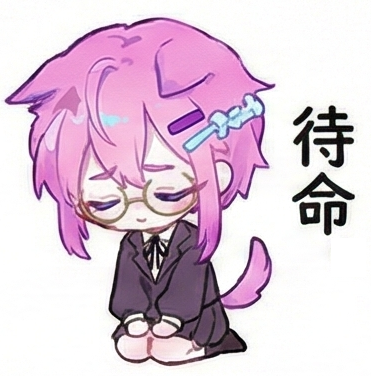
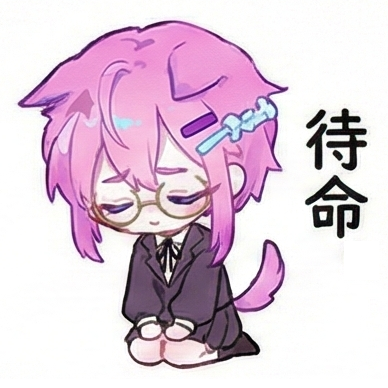
add pack 3 & 4

diff --git a/scripts/3_to_4_cut_white_edges.py b/scripts/3_to_4_cut_white_edges.py
@@ -20,7 +20,7 @@ ROOT_DIR = Path(__file__).resolve().parents[1]
 SOURCE_DIR = ROOT_DIR / "data" / "3_edited"
 TARGET_DIR = ROOT_DIR / "data" / "4_final"
 
-WHITE_RATIO = 0.95
+WHITE_RATIO = 0.98
 WHITE_TOLERANCE = 0.05
 WHITE_LEVEL = int(255 * (1 - WHITE_TOLERANCE))
 BORDER_RATIO = 0.05
@@ -115,6 +115,9 @@ def _crop_with_padding(img: Image.Image, box: tuple[int, int, int, int]) -> Imag
 
 def process_image(path: Path) -> None:
     """对单张图片执行判白、裁剪和补白输出到目标目录。"""
+    target_path = TARGET_DIR / path.name
+    if target_path.exists():
+        raise FileExistsError(f"目标文件已存在：{target_path.name}")
     with Image.open(path) as raw:
         working = raw.convert("RGBA")
         mask = _white_mask(working)
@@ -122,7 +125,7 @@ def process_image(path: Path) -> None:
         target_box = _target_box(working.size, offsets)
         result = _crop_with_padding(working, target_box)
         TARGET_DIR.mkdir(parents=True, exist_ok=True)
-        result.save(TARGET_DIR / path.name, format="PNG")
+        result.save(target_path, format="PNG")
 
 
 def main() -> None:

diff --git a/scripts/1_to_2_split_images.py b/scripts/1_to_2_split_images.py
@@ -52,6 +52,17 @@ def _padding_color(img: Image.Image):
 def split_image(path: Path) -> None:
     """执行单张图片的切分与保存，确保输出命名为 %03d_%d_%d。"""
     image_id, cols, rows = parse_filename(path)
+    existing_tiles: list[str] = []
+    for row in range(rows):
+        for col in range(cols):
+            tile_path = TARGET_DIR / f"{image_id:03d}_{row + 1}_{col + 1}.png"
+            if tile_path.exists():
+                existing_tiles.append(tile_path.name)
+    if existing_tiles:
+        preview = ", ".join(existing_tiles[:3])
+        if len(existing_tiles) > 3:
+            preview += "..."
+        raise FileExistsError(f"目标切片已存在（例如：{preview}），已跳过以避免覆盖")
     with Image.open(path) as img:
         width, height = img.size
         pad_w = (-width) % cols
